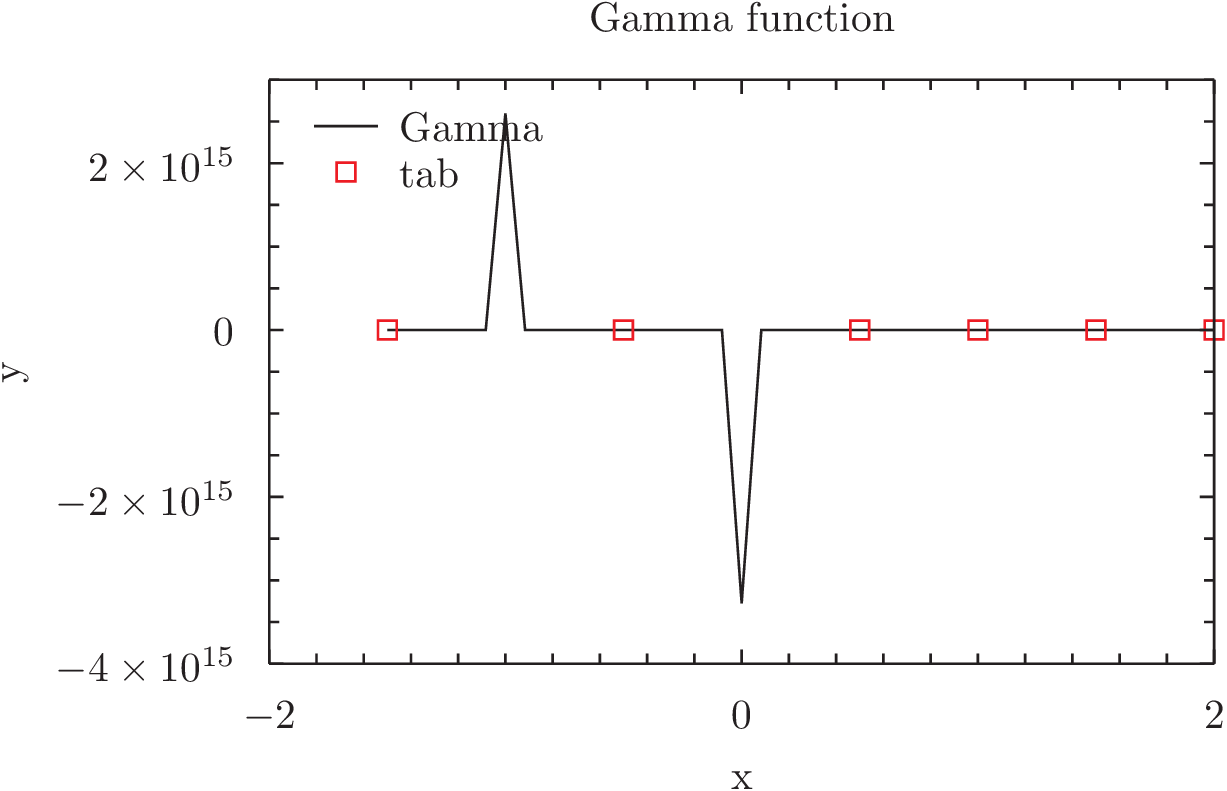
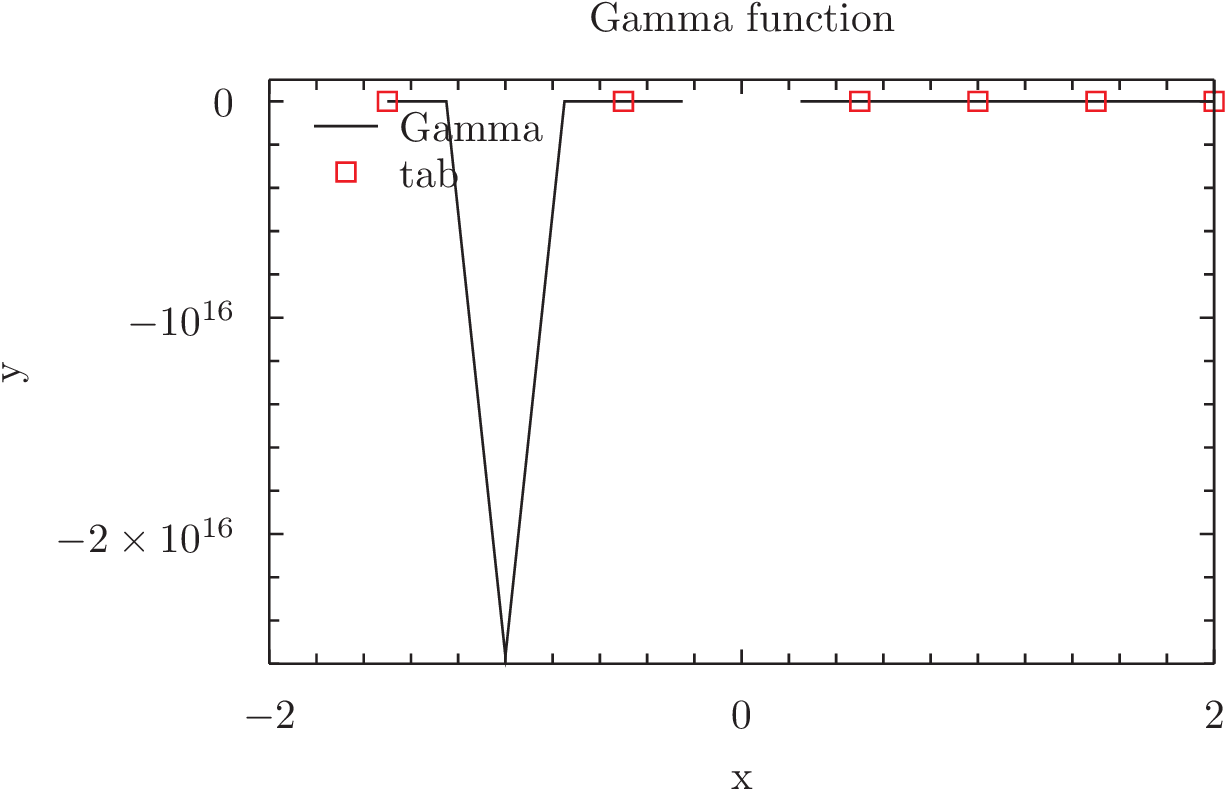
g

diff --git a/homeworks/plots/PartB/main.cs b/homeworks/plots/PartB/main.cs
@@ -13,7 +13,7 @@ class main{
 	}
 
 	static public void Main(){
-		for(double x=-1.5;x<=4; x+=1.0/12)
+		for(double x=-1.5;x<=4; x+=1.0/4)
 			WriteLine($"{x} {gamma(x)}");
 	}
 
